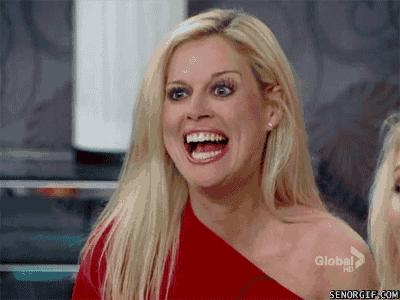
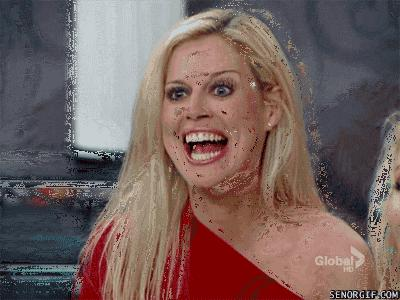
Workign code :D

diff --git a/run.m b/run.m
@@ -29,7 +29,7 @@ vw.open();
 
 base = 'Images/excitement';
 animation = [];
-for i = 1 : 10,
+for i = 1 : 15,
     animation(i,:,:,:) = imread(strcat(base,int2str(i),'.jpg'));
 end
 %%
@@ -120,7 +120,7 @@ for i = 1 : n_files,
         final(I(j),J(j),4:6) = test_im_2(I(j),J(j),:);   % transfer colour
     end
     
-    if (i >= 10 && i <= 28),
+    if (i >= 14 && i <= 29),
         % Suitcase time
         mask = [zeros(270, 640) ; ones(200, 640); zeros(10, 640)];
 
@@ -177,7 +177,7 @@ for i = 1 : n_files,
         binary_image = zeros(480,640);
         for j = 1 : length(I),
                 % Pink denotes that it is part of largest component on the plane
-    %            final(I(j), J(j),4:6) = [255 0 255];
+%                final(I(j), J(j),4:6) = [255 0 255];
                  binary_image(I(j),J(j)) = 255;
         end
 
@@ -236,6 +236,7 @@ for i = 1 : n_files,
                     point4 = newC(d2,:);
                 end
             end
+        end
 
             homo_points = [point1 ; point2 ; point3 ; point4];
 
@@ -263,15 +264,15 @@ for i = 1 : n_files,
                     y=round(v(1)/v(3));  % undo projective scaling and round to nearest integer
                     x=round(v(2)/v(3));
                     if (x >= 1) && (x <= cat_x) && (y >= 1) && (y <= cat_y)
-                        final(c,r,4:6)=animation(1,y,x,:);   % transfer colour
+                        final(c,r,4:6)=animation(mod(i-13,10)+1,y,x,:);   % transfer colour
                     end
                 end
             end
-        end
     end
+  
 %   RGB image layers must be converted to uint8 to display
-
     imshow(uint8(final(:,:,4:6)));
+
     writeVideo(vw,getframe(gcf));
 
 
